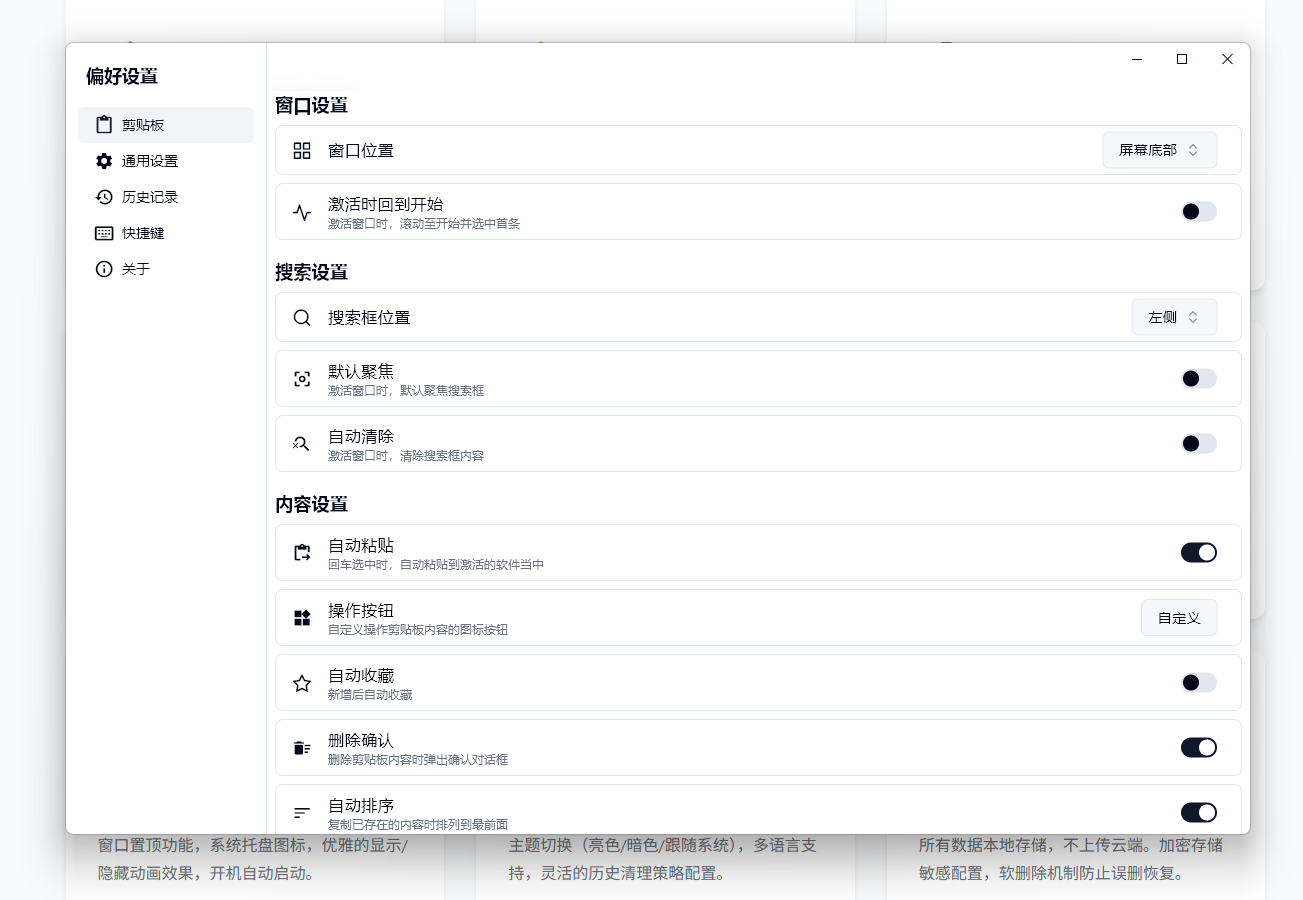
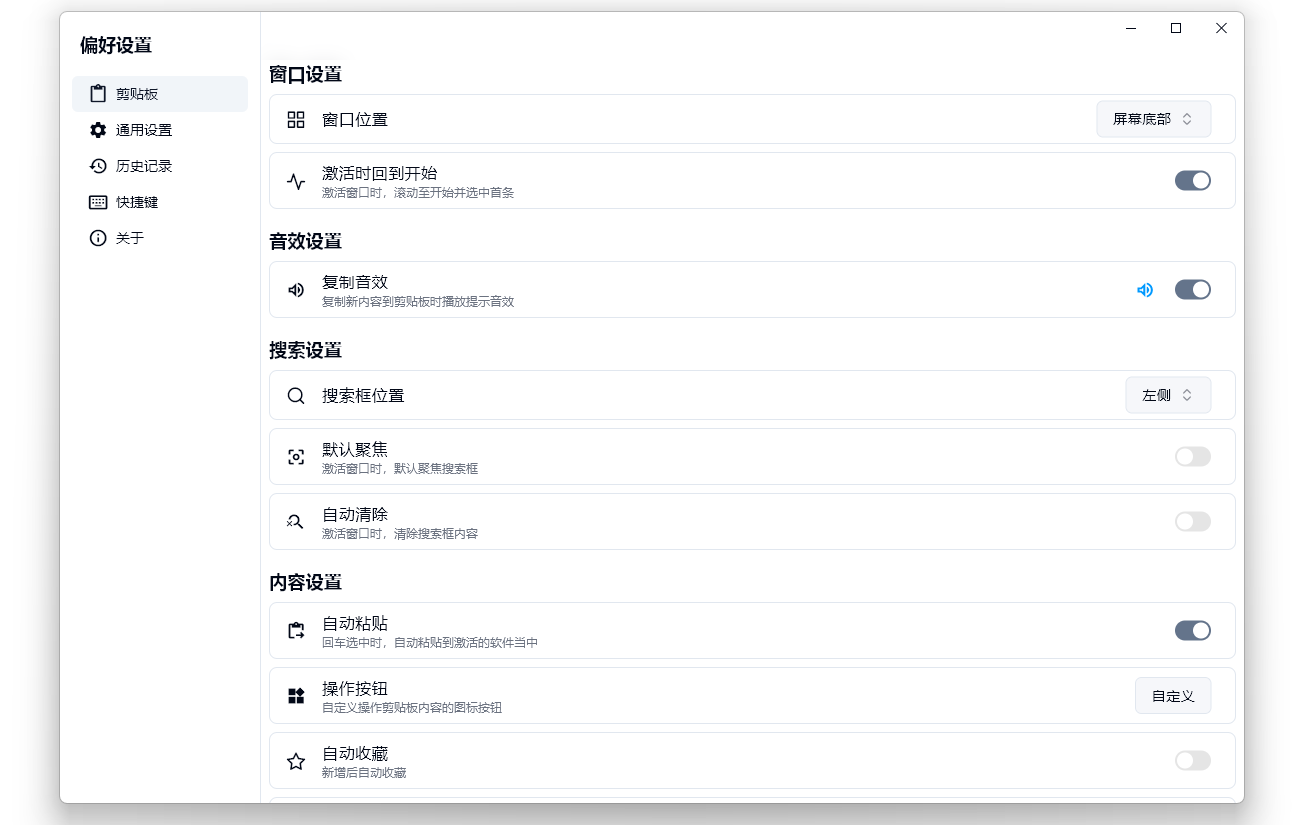
release v0.0.2beta version

diff --git a/index.html b/index.html
@@ -410,11 +410,11 @@
         }
 
         .screenshot-gallery {
-            max-width: 1200px;
+            max-width: 1400px;
             margin: 0 auto;
             display: grid;
-            grid-template-columns: repeat(auto-fit, minmax(400px, 1fr));
-            gap: 2rem;
+            grid-template-columns: repeat(3, 1fr);
+            gap: 1.5rem;
         }
 
         .screenshot-item {
@@ -444,7 +444,7 @@
             width: 100%;
             height: auto;
             display: block;
-            object-fit: cover;
+            object-fit: contain;
         }
 
         /* 下载区域 */
@@ -541,7 +541,7 @@
         }
 
         .download-btn {
-            display: inline-block;
+            display: block;
             padding: 0.75rem 1.5rem;
             background: white;
             color: var(--primary-color);
@@ -550,6 +550,7 @@
             font-weight: 600;
             transition: all 0.3s;
             font-size: 0.95rem;
+            text-align: center;
         }
 
         .download-btn:hover {
@@ -575,6 +576,9 @@
             border-radius: 20px;
             font-size: 0.8rem;
             margin-top: 0.75rem;
+            margin-left: auto;
+            margin-right: auto;
+            display: block;
         }
 
         /* 注意事项区域 */
@@ -976,7 +980,7 @@
             </div>
             <h1 data-zh="超级剪贴板" data-en="Super Clipboard">超级剪贴板</h1>
             <div style="display:inline-block; background:rgba(255,255,255,0.18); backdrop-filter:blur(4px); padding:0.4rem 1.2rem; border-radius:20px; font-size:0.95rem; margin-bottom:1.5rem; border:1px solid rgba(255,255,255,0.25);">
-                <span data-zh="当前版本：" data-en="Current Version: ">当前版本：</span><strong>v0.0.1-beta</strong>
+                <span data-zh="当前版本：" data-en="Current Version: ">当前版本：</span><strong id="hero-version">v0.0.2-beta</strong>
             </div>
             <p data-zh="智能剪贴板管理工具，自动记录和管理您的所有复制内容，大幅提升工作效率" 
                data-en="Smart clipboard management tool that automatically records and manages all your copied content, significantly improving work efficiency">
@@ -1098,6 +1102,18 @@
                     📸 设置界面截图（待添加）
                 </div>
             </div>
+            <div class="screenshot-item" onclick="openLightbox('assets/images/screenshot-functions.png')">
+                <img src="assets/images/screenshot-functions.png" alt="功能面板截图" data-zh-alt="功能面板截图" data-en-alt="Functions Panel Screenshot" onerror="this.style.display='none'; this.nextElementSibling.style.display='flex';">
+                <div class="screenshot-placeholder" style="display: none;" data-zh="📸 功能面板截图（待添加）" data-en="📸 Functions Panel Screenshot (To be added)">
+                    📸 功能面板截图（待添加）
+                </div>
+            </div>
+            <div class="screenshot-item" onclick="openLightbox('assets/images/screenshot-image.png')">
+                <img src="assets/images/screenshot-image.png" alt="图片预览截图" data-zh-alt="图片预览截图" data-en-alt="Image Preview Screenshot" onerror="this.style.display='none'; this.nextElementSibling.style.display='flex';">
+                <div class="screenshot-placeholder" style="display: none;" data-zh="📸 图片预览截图（待添加）" data-en="📸 Image Preview Screenshot (To be added)">
+                    📸 图片预览截图（待添加）
+                </div>
+            </div>
         </div>
     </section>
 
@@ -1122,23 +1138,25 @@
                 </div>
                 <h3>Windows</h3>
                 <p data-zh="Windows 10/11 64位" data-en="Windows 10/11 64-bit">Windows 10/11 64位</p>
-                <p style="font-size: 0.85rem; margin-bottom: 1rem; opacity: 0.7;">v0.0.1-beta</p>
-                <a href="https://github.com/Shuyun123/SuperClipboard/releases/download/0.0.1-beta/SuperClipboard_Setup-x64-v0.0.1beta.exe" class="download-btn" data-zh="下载 Windows 版" data-en="Download for Windows">
+                <p id="win-version-text" style="font-size: 0.85rem; margin-bottom: 1rem; opacity: 0.7;">v0.0.2-beta</p>
+                <a id="win-download-link" href="#" class="download-btn" data-zh="下载 Windows 版" data-en="Download for Windows">
                     下载 Windows 版
                 </a>
                 <div class="status-badge" data-zh="✅ 已发布" data-en="✅ Released">✅ 已发布</div>
             </div>
 
             <!-- macOS -->
-            <div class="download-card disabled">
+            <div class="download-card">
                 <div class="platform-icon">
                     <svg viewBox="0 0 24 24" fill="white"><path d="M18.71 19.5c-.83 1.24-1.71 2.45-3.05 2.47-1.34.03-1.77-.79-3.29-.79-1.53 0-2 .77-3.27.82-1.31.05-2.3-1.32-3.14-2.53C4.25 17 2.94 12.45 4.7 9.39c.87-1.52 2.43-2.48 4.12-2.51 1.28-.02 2.5.87 3.29.87.78 0 2.26-1.07 3.8-.91.65.03 2.47.26 3.64 1.98-.09.06-2.17 1.28-2.15 3.81.03 3.02 2.65 4.03 2.68 4.04-.03.07-.42 1.44-1.38 2.83M13 3.5c.73-.83 1.94-1.46 2.94-1.5.13 1.17-.34 2.35-1.04 3.19-.69.85-1.83 1.51-2.95 1.42-.15-1.15.41-2.35 1.05-3.11z"/></svg>
                 </div>
                 <h3>macOS</h3>
                 <p data-zh="macOS 10.15+" data-en="macOS 10.15+">macOS 10.15+</p>
-                <p style="font-size: 0.85rem; margin-bottom: 1rem; opacity: 0.7;">v0.0.1-beta</p>
-                <span class="download-btn disabled" data-zh="适配中" data-en="Adapting">适配中</span>
-                <div class="status-badge" data-zh="🚧 正在适配" data-en="🚧 Adapting">🚧 正在适配</div>
+                <p id="mac-version-text" style="font-size: 0.85rem; margin-bottom: 1rem; opacity: 0.7;">v0.0.2-beta</p>
+                <a id="mac-download-link" href="#" class="download-btn" data-zh="下载 macOS 版" data-en="Download for macOS">
+                    下载 macOS 版
+                </a>
+                <div class="status-badge" data-zh="✅ 已发布" data-en="✅ Released">✅ 已发布</div>
             </div>
 
             <!-- Linux -->
@@ -1175,7 +1193,7 @@
                 </div>
                 <h3>Linux</h3>
                 <p data-zh="Ubuntu/Fedora 等" data-en="Ubuntu/Fedora etc.">Ubuntu/Fedora 等</p>
-                <p style="font-size: 0.85rem; margin-bottom: 1rem; opacity: 0.7;">v0.0.1-beta</p>
+                <p id="linux-version-text" style="font-size: 0.85rem; margin-bottom: 1rem; opacity: 0.7;">v0.0.2-beta</p>
                 <span class="download-btn disabled" data-zh="适配中" data-en="Adapting">适配中</span>
                 <div class="status-badge" data-zh="🚧 正在适配" data-en="🚧 Adapting">🚧 正在适配</div>
             </div>
@@ -1233,17 +1251,19 @@
                         国内用户推荐使用高速下载，服务器部署在国内，下载速度更快！
                     </p>
                     <div style="display:flex; gap:1rem; flex-wrap:wrap; margin-top:1.5rem;">
-                        <a href="./app/SuperClipboard_Setup-x64-v0.0.1beta.exe" 
-                           style="display:inline-flex; align-items:center; gap:0.5rem; padding:0.75rem 1.6rem; background:linear-gradient(135deg, #F59E0B, #F97316); border-radius:10px; color:white; text-decoration:none; font-weight:600; transition:all 0.3s; box-shadow:0 4px 14px rgba(245,158,11,0.3);" 
+                        <a id="fast-win-link" href="#"
+                           style="display:inline-flex; align-items:center; gap:0.5rem; padding:0.75rem 1.6rem; background:linear-gradient(135deg, #F59E0B, #F97316); border-radius:10px; color:white; text-decoration:none; font-weight:600; transition:all 0.3s; box-shadow:0 4px 14px rgba(245,158,11,0.3);"
                            onmouseover="this.style.transform='translateY(-2px)'; this.style.boxShadow='0 8px 25px rgba(245,158,11,0.4)'" onmouseout="this.style.transform=''; this.style.boxShadow='0 4px 14px rgba(245,158,11,0.3)'"
                            data-zh="⚡ Windows 版" data-en="⚡ Windows">
                            ⚡ Windows 版
                         </a>
-                        <span style="display:inline-flex; align-items:center; gap:0.5rem; padding:0.75rem 1.6rem; background:rgba(255,255,255,0.08); border:1px solid rgba(255,255,255,0.15); border-radius:10px; color:rgba(255,255,255,0.4); font-weight:600; cursor:not-allowed;" 
-                           data-zh="⚡ macOS 版（适配中）" data-en="⚡ macOS (Adapting)">
-                           ⚡ macOS 版（适配中）
-                        </span>
-                        <span style="display:inline-flex; align-items:center; gap:0.5rem; padding:0.75rem 1.6rem; background:rgba(255,255,255,0.08); border:1px solid rgba(255,255,255,0.15); border-radius:10px; color:rgba(255,255,255,0.4); font-weight:600; cursor:not-allowed;" 
+                        <a id="fast-mac-link" href="#"
+                           style="display:inline-flex; align-items:center; gap:0.5rem; padding:0.75rem 1.6rem; background:linear-gradient(135deg, #F59E0B, #F97316); border-radius:10px; color:white; text-decoration:none; font-weight:600; transition:all 0.3s; box-shadow:0 4px 14px rgba(245,158,11,0.3);"
+                           onmouseover="this.style.transform='translateY(-2px)'; this.style.boxShadow='0 8px 25px rgba(245,158,11,0.4)'" onmouseout="this.style.transform=''; this.style.boxShadow='0 4px 14px rgba(245,158,11,0.3)'"
+                           data-zh="⚡ macOS 版" data-en="⚡ macOS">
+                           ⚡ macOS 版
+                        </a>
+                        <span style="display:inline-flex; align-items:center; gap:0.5rem; padding:0.75rem 1.6rem; background:rgba(255,255,255,0.08); border:1px solid rgba(255,255,255,0.15); border-radius:10px; color:rgba(255,255,255,0.4); font-weight:600; cursor:not-allowed;"
                            data-zh="⚡ Linux 版（适配中）" data-en="⚡ Linux (Adapting)">
                            ⚡ Linux 版（适配中）
                         </span>
@@ -1270,7 +1290,23 @@
     </footer>
 
     <script>
-        // 语言切换功能 - 下拉菜单版本
+        // ========== 版本配置（发布新版本时只需修改此处）==========
+        const APP_VERSION = '0.0.2-beta'; // 版本号，如：0.0.2-beta
+        const VERSION_DISPLAY = 'v0.0.2-beta'; // 显示版本号，如：v0.0.2-beta
+        const GITHUB_USER = 'Shuyun123'; // GitHub 用户名
+        const GITHUB_REPO = 'SuperClipboard'; // GitHub 仓库名
+
+        // 动态拼接 GitHub Releases 下载链接
+        const GITHUB_RELEASE_BASE = `https://github.com/${GITHUB_USER}/${GITHUB_REPO}/releases/download/${APP_VERSION}`;
+        // Windows 文件名格式
+        const WIN_FILE = `SuperClipboard_Setup-x64-${APP_VERSION.replace('-beta', 'beta')}.exe`;
+        // macOS 文件名格式
+        const MAC_FILE = `SuperClipboard_Setup-x64-${APP_VERSION.replace('-beta', 'beta')}.dmg`;
+        // 本地高速下载路径
+        const LOCAL_WIN_PATH = `./app/${WIN_FILE}`;
+        const LOCAL_MAC_PATH = `./app/${MAC_FILE}`;
+
+        // ========== 语言切换功能 - 下拉菜单版本 ==========
         let currentLang = 'zh'; // 默认中文
         
         const langDropdownBtn = document.getElementById('langDropdownBtn');
@@ -1432,9 +1468,40 @@
                 closeMobileSidebar();
             }
         });
-        
-        // 页面加载时检查用户偏好
+
+        // ========== 动态更新版本号和下载链接 ==========
+        function updateVersionInfo() {
+            // 更新 Hero 区域版本号
+            const heroVersion = document.getElementById('hero-version');
+            if (heroVersion) heroVersion.textContent = VERSION_DISPLAY;
+
+            // 更新下载区域版本号显示
+            const winVersionText = document.getElementById('win-version-text');
+            const macVersionText = document.getElementById('mac-version-text');
+            const linuxVersionText = document.getElementById('linux-version-text');
+            if (winVersionText) winVersionText.textContent = VERSION_DISPLAY;
+            if (macVersionText) macVersionText.textContent = VERSION_DISPLAY;
+            if (linuxVersionText) linuxVersionText.textContent = VERSION_DISPLAY;
+
+            // 更新 GitHub Releases 下载链接
+            const winDownloadLink = document.getElementById('win-download-link');
+            const macDownloadLink = document.getElementById('mac-download-link');
+            if (winDownloadLink) winDownloadLink.href = `${GITHUB_RELEASE_BASE}/${WIN_FILE}`;
+            if (macDownloadLink) macDownloadLink.href = `${GITHUB_RELEASE_BASE}/${MAC_FILE}`;
+
+            // 更新高速下载通道链接
+            const fastWinLink = document.getElementById('fast-win-link');
+            const fastMacLink = document.getElementById('fast-mac-link');
+            if (fastWinLink) fastWinLink.href = LOCAL_WIN_PATH;
+            if (fastMacLink) fastMacLink.href = LOCAL_MAC_PATH;
+        }
+
+        // 页面加载时检查用户偏好并更新版本信息
         document.addEventListener('DOMContentLoaded', function() {
+            // 更新版本号和下载链接
+            updateVersionInfo();
+
+            // 检查语言偏好
             const savedLang = localStorage.getItem('preferred-language');
             if (savedLang && (savedLang === 'zh' || savedLang === 'en')) {
                 switchLanguage(savedLang);